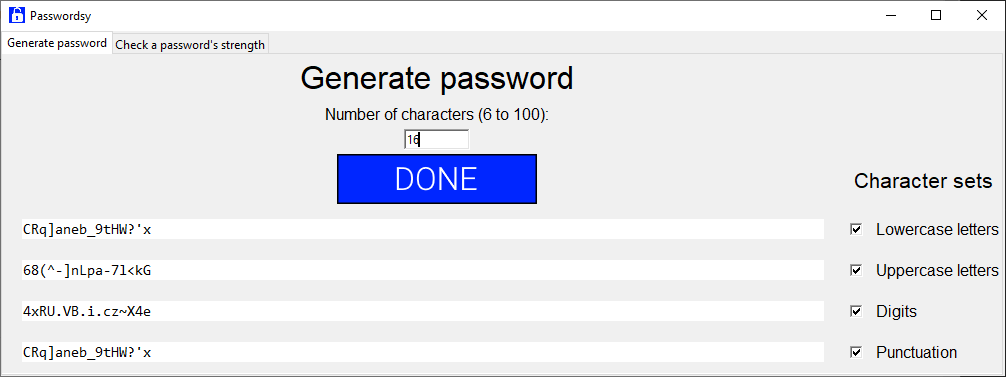
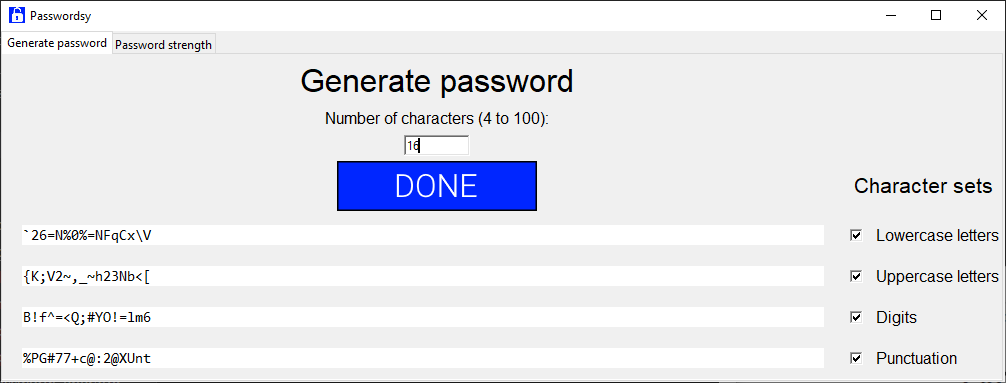
Updated README.md, added new screenshots

diff --git a/README.md b/README.md
@@ -1,21 +1,21 @@
 # Passwordsy
-A program that can generate a secure password of up to 100 characters (uppercase and lowercase letters, digits, and/or punctuation), and check for vulnerabilities (prevalence, length, complexity, repeated characters) in a given password. 
+A program that can generate a secure password of up to 100 characters (with uppercase and lowercase letters, digits, and/or punctuation), and check for vulnerabilities (prevalence, length, complexity, repeated characters) in a given password. 
 
 Blog: https://icethedev2.github.io/
 
 ## Getting Started
 ### Prerequisites
-You will need to install Python (from the Microsoft Store, for example) to run this program.
+You will need to install Python (from the Microsoft Store, for example) and GitHub Desktop to run this program.
 
 ### Installation
 Clone the repository using GitHub Desktop.
 Click File > Clone repository, put https://github.com/IceTheDev2/Passwordsy/ into the URL field, and select which directory you want to clone the repository in.
 Run main.py from a terminal.
-For the Windows Command Prompt, use cd to change directories and navigate to the folder you cloned the repository in.
+With the Windows Command Prompt, use cd to change directories and navigate to the folder you cloned the repository in.
 Navigate to the code directory and type 'python main.py'
 
 ## Usage
-You can use this program to generate a random secure string of 6 to 100 uppercase and lowercase letters, numbers and/or punctuation marks.
+You can use this program to generate a random secure string of 4 to 100 uppercase and lowercase letters, numbers and/or punctuation marks.
 ![alt_text](https://github.com/IceTheDev2/Passwordsy/blob/main/code/screenshots/1.PNG)
 ![alt_text](https://github.com/IceTheDev2/Passwordsy/blob/main/code/screenshots/2.PNG)
 ![alt_text](https://github.com/IceTheDev2/Passwordsy/blob/main/code/screenshots/3.PNG)
@@ -46,8 +46,9 @@ E-mail: icethedev2@gmail.com
 * The GitHub contributors to this project, [dwaffle](https://github.com/dwaffle), [christopher-chandler](https://trello.com/c/f72vJsYk/50-https-githubcom-christopher-chandler), and [MartinMerkli](https://github.com/MartinMerkli)
 * The [SecLists repository](https://github.com/danielmiessler/SecLists) of danielmiessler, used here for the 100,000 most common passwords
 * [Exercism](https://exercism.org/) for its large array of exercises
+* [ChatGPT](https://chat.openai.com/chat) for helping me solve the most obscure of errors and bugs.
 * These Stack Overflow questions: https://stackoverflow.com/questions/2260235/how-to-clear-the-entry-widget-after-a-button-is-pressed-in-tkinter, https://stackoverflow.com/questions/68327/change-command-method-for-tkinter-button-in-python, https://stackoverflow.com/questions/61139160/tkinter-error-tkinter-tclerror-invalid-command-name-frame-entry-python, https://stackoverflow.com/questions/45847313/what-does-weight-do-in-tkinter, https://stackoverflow.com/questions/66035176/entry-widget-in-tkinter-with-key-bind, https://stackoverflow.com/questions/66035176/entry-widget-in-tkinter-with-key-bind, https://stackoverflow.com/questions/69425865/tkinter-event-x-y-mouse-position-wrong-value-only-when-mouse-movement-up, https://stackoverflow.com/questions/68615095/how-do-i-find-the-position-of-a-widget-relative-to-the-window-in-tkinter, https://stackoverflow.com/questions/45393923/python-tkinter-key-binding-to-all-subsequent-widgets, https://stackoverflow.com/questions/45393923/python-tkinter-key-binding-to-all-subsequent-widgets, https://stackoverflow.com/questions/27802270/how-to-stop-a-function, https://stackoverflow.com/questions/3842155/is-there-a-way-to-make-the-tkinter-text-widget-read-only.
-* [This tutorialspoint.com page](https://www.tutorialspoint.com/how-to-delete-tkinter-widgets-from-a-window#:~:text=We%20can%20delete%20widgets%20from,defining%20a%20function%20for%20it.), as well as [this one](https://www.tutorialspoint.com/how-to-get-the-input-from-a-checkbox-in-python-tkinter#:~:text=Let%20us%20suppose%20that%20we,value%20of%20a%20particular%20widget.)
+* [This tutorialspoint.com page](https://www.tutorialspoint.com/how-to-delete-tkinter-widgets-from-a-window#:~:text=We%20can%20delete%20widgets%20from,defining%20a%20function%20for%20it.), [this one](https://www.tutorialspoint.com/how-to-get-the-input-from-a-checkbox-in-python-tkinter#:~:text=Let%20us%20suppose%20that%20we,value%20of%20a%20particular%20widget.), and [this one](https://www.tutorialspoint.com/how-can-i-identify-when-a-button-is-released-in-tkinter)
 * Paul Miskew for his [PYTHON 3 TKINTER - GUI ENTRY BIND KEY](https://youtu.be/JThKYGapGzU) video
 * [This simplilearn.com page](https://www.simplilearn.com/tutorials/python-tutorial/python-typeof-function)
 * [This realpython.com page](https://realpython.com/documenting-python-code/#documenting-your-python-code-base-using-docstrings)
@@ -60,5 +61,4 @@ E-mail: icethedev2@gmail.com
 * [security.org](https://www.security.org/how-secure-is-my-password/)
 * [This GitHub Docs page](https://docs.github.com/en/pull-requests/collaborating-with-pull-requests/reviewing-changes-in-pull-requests/approving-a-pull-request-with-required-reviews)
 * [This video by plus 2 net](https://youtu.be/mSpLnnXeiIc)
-* [This tutorialspoint.com page](https://www.tutorialspoint.com/how-can-i-identify-when-a-button-is-released-in-tkinter)
 * [This video from PyTutorials](https://youtu.be/DTnz8wA6wpw)
